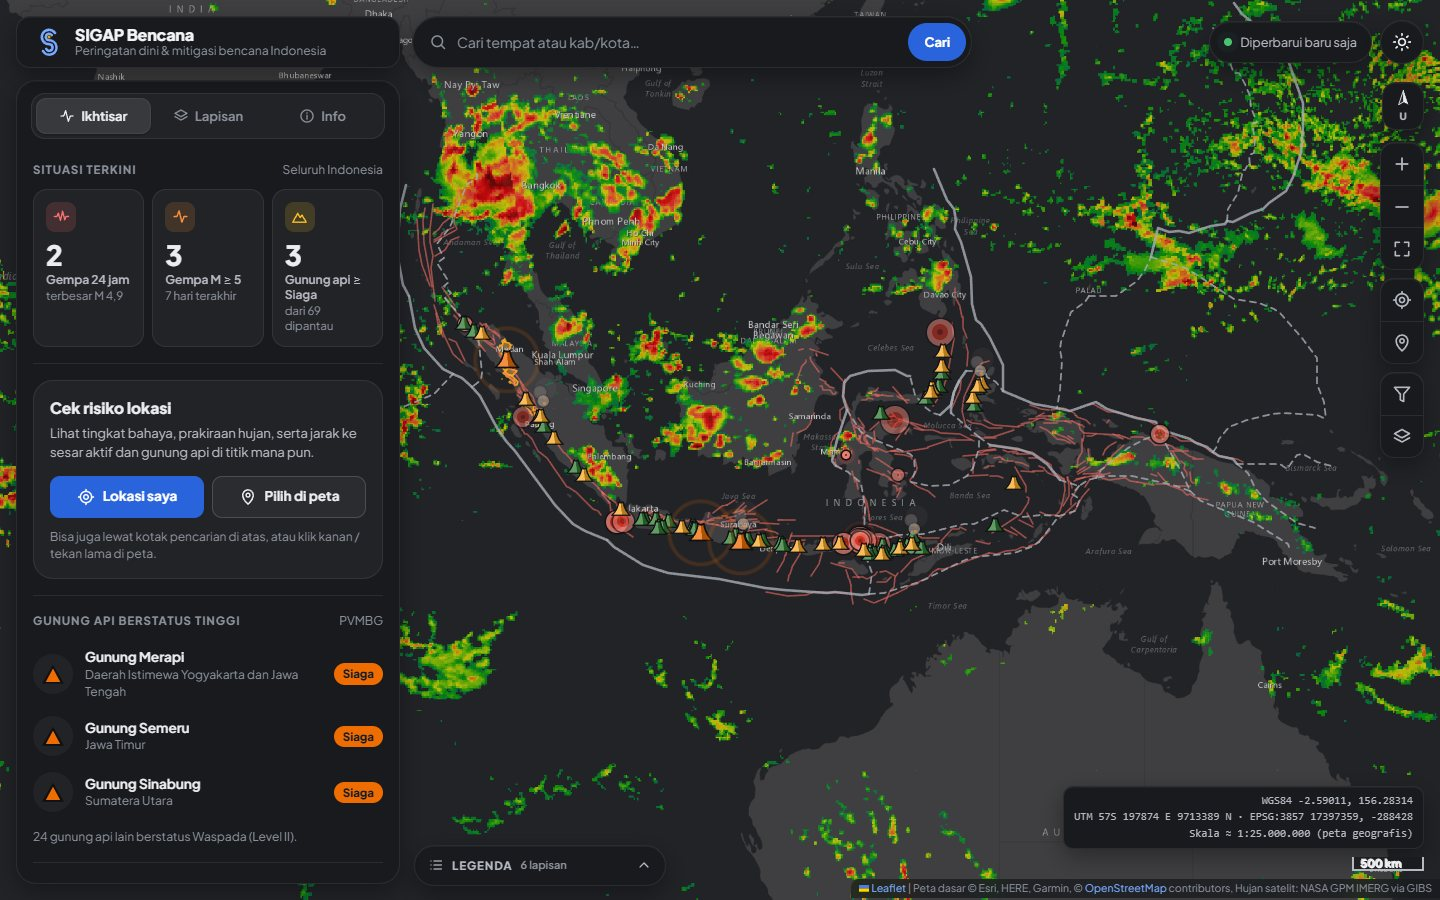
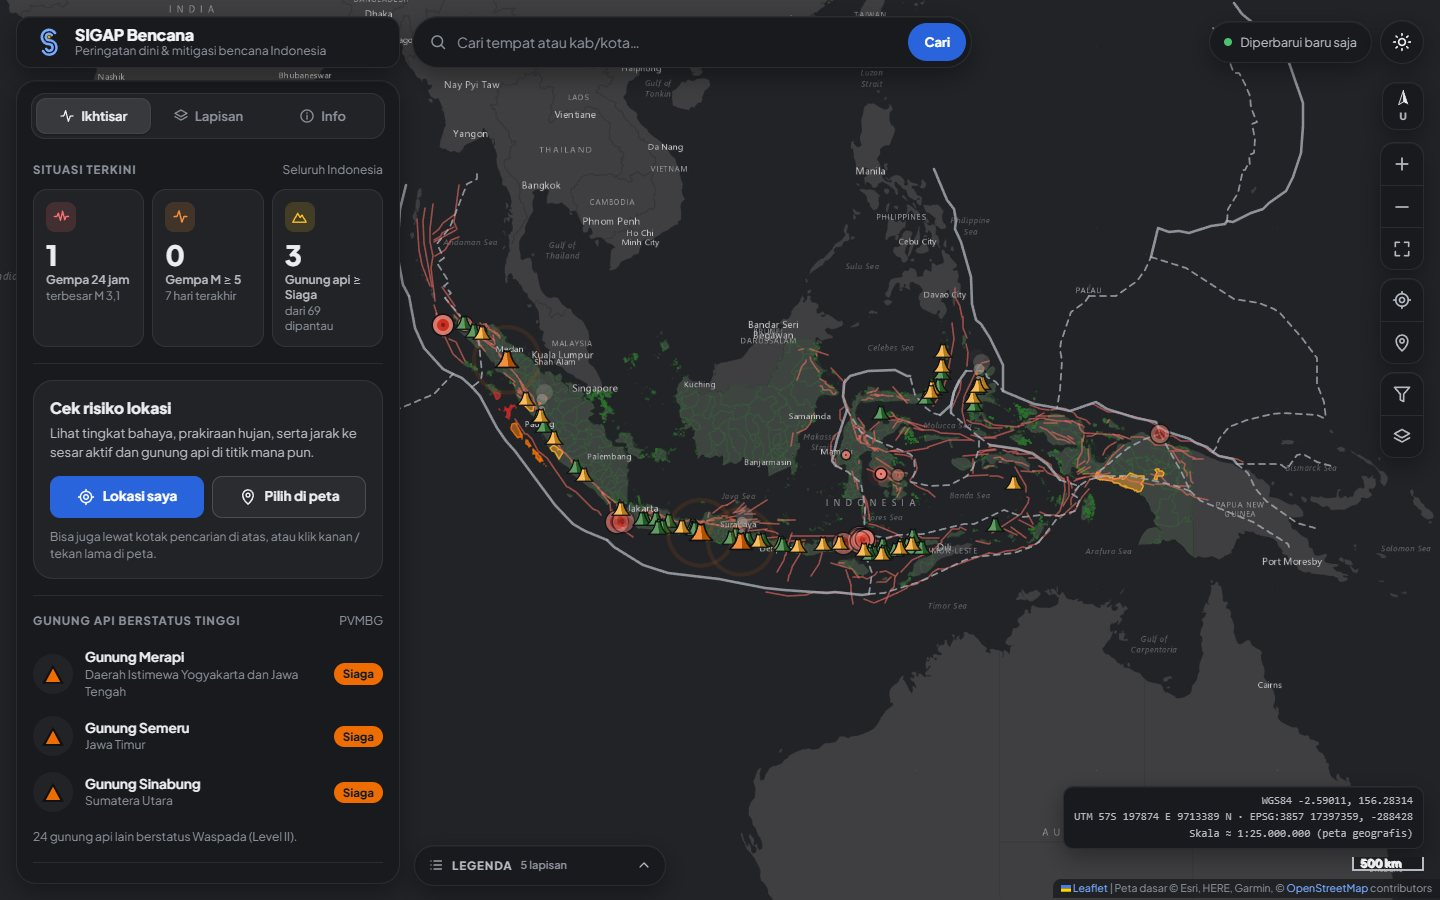
docs: README for the SIGAP 3-day outlook
- Explain how the outlook works: hazard zones, monitoring points checked
  against native InaRISK values, rain at each point, rules v0.1, and the
  12-hour schedule within the free Open-Meteo quota.
- Add GET /api/outlook, the seed and npm run indikasi notes, and the new
  server test count, in both the English and Indonesian READMEs.
- New screenshot of the outlook for 29 Sep - 1 Oct 2026, with Nias Selatan
  at Awas and Kepulauan Mentawai at Siaga. The hero, Lembang, and phone
  screenshots were retaken with the outlook as the default layer.

diff --git a/README.md b/README.md
@@ -23,7 +23,7 @@ Earthquakes, volcanoes, floods, landslides, and heavy rain on one map, checked a
 
 <picture>
   <source media="(prefers-color-scheme: dark)" srcset="docs/images/app-dark.jpg">
-  <img src="docs/images/app-light.jpg" alt="SIGAP Bencana map of Indonesia with satellite rainfall from NASA IMERG, active faults, earthquakes of the last 7 days, and volcano alert levels, with the overview panel on the left">
+  <img src="docs/images/app-light.jpg" alt="SIGAP Bencana map of Indonesia with the SIGAP 3-day outlook for every regency, active faults, earthquakes of the last 7 days, and volcano alert levels, with the overview panel on the left">
 </picture>
 
 > [!IMPORTANT]
@@ -37,7 +37,7 @@ The logo is an **S drawn from three contour lines** around an amber summit point
 
 | 514 | 69 | 401 | 1,884 | 10 |
 |:---:|:---:|:---:|:---:|:---:|
-| regencies and cities with official 2025 boundaries | volcanoes with live PVMBG alert levels | active fault segments (PuSGeN 2024) | landslide events in the deduplicated inventory | open data feeds in the research archive |
+| regencies and cities, each with a 3-day SIGAP outlook every 12 hours | volcanoes with live PVMBG alert levels | active fault segments (PuSGeN 2024) | landslide events in the deduplicated inventory | open data feeds in the research archive |
 
 ## What it does
 
@@ -46,6 +46,7 @@ The logo is an **S drawn from three contour lines** around an amber summit point
 <td width="50%" valign="top">
 
 ### Live hazards on one map
+- **SIGAP 3-day outlook** for all 514 regencies and cities, recomputed every 12 hours: heavy rain, flood, and landslide levels from Open-Meteo rain at 3,222 monitoring points × InaRISK hazard classes. It is on by default, and each popup shows BMKG's official warning next to it. It is a system indication, not an official warning.
 - **Earthquakes** from BMKG, synced every 60 seconds. Circles are sized by magnitude, coloured by depth class, and fade over 7 days. Popups carry the tsunami flag and the ShakeMap.
 - **Volcanoes** from MAGMA Indonesia, synced every 30 minutes, with alert level I–IV, eruption status, and aviation ash warnings (VONA).
 - **Heavy-rain warnings** from BMKG CEWS for the current dasarian (10-day period), drawn on regency boundaries and listed in the overview.
@@ -59,7 +60,7 @@ The logo is an **S drawn from three contour lines** around an amber summit point
 
 ### Risk check for any point
 Pick a point by search, GPS, right-click, or long press. SIGAP runs 11 lookups in parallel (web services and PostGIS queries) and returns one profile:
-- a 3-day outlook (Normal, Waspada, Siaga, Awas) from rainfall × hazard class;
+- a 3-day outlook (Normal, Waspada, Siaga, Awas) for heavy rain, flood, and landslide, from rainfall × hazard class, with the same rules as the regency outlook;
 - the five InaRISK hazard indices;
 - the nearest active fault and volcanoes, drawn as distance lines;
 - recent earthquakes within 100 km;
@@ -100,6 +101,10 @@ Several official products vanish once they expire, such as short weather warning
 
 ![Agam regency highlighted as Waspada on the heavy-rain warning layer, with the warning list in the overview panel](docs/images/rain-warnings-agam.jpg)
 
+**SIGAP 3-day outlook for 29 September–1 October 2026.** All 514 regencies are rated: Nias Selatan is Awas, Kepulauan Mentawai is Siaga, four regencies are Waspada, and 508 are Normal. The Nias Selatan level comes from one monitoring point in a high flood-hazard zone, where the model forecasts 261.6 mm for 30 September. The popup lists the three hazards with their reasons and can open the risk check at that point. It also shows BMKG's official CEWS level (Aman for this dasarian), because one uncalibrated 9 km forecast cell can be enough to raise a regency.
+
+![Nias Selatan at Awas on the SIGAP 3-day outlook, with Kepulauan Mentawai at Siaga, the regency popup, and the outlook summary in the overview panel](docs/images/outlook-nias-selatan.jpg)
+
 <table>
 <tr>
 <td width="50%"><img src="docs/images/mobile-overview.jpg" alt="Phone layout: map with the overview bottom sheet"></td>
@@ -110,6 +115,22 @@ Several official products vanish once they expire, such as short weather warning
 <td align="center">Phone layout: risk profile</td>
 </tr>
 </table>
+
+## How the 3-day outlook works
+
+Every 12 hours the server rates heavy rain, flood, and landslide for all 514 regencies and cities. Every run is stored, Normal regencies included, so the outlook can be verified against events later.
+
+1. **Hazard zones.** InaRISK flood and landslide classes for the whole country, at about 550 m, are loaded into PostGIS rasters and clipped to each regency. The same step records the area of each class per regency.
+2. **Monitoring points.** Each regency gets up to three points per hazard, in the 0.25° cells with the highest class, plus one reference point. The server smooths the 550 m export, so each point's class is checked against the native 100 m InaRISK value (`getSamples`). The risk check at that point therefore shows the same class.
+3. **Rain.** Open-Meteo daily rain for the past 3 and next 3 days at every monitoring point, at the same coordinates the risk check uses. In Indonesia Open-Meteo serves ECMWF IFS at 9 km, much finer than a 0.25° cell, so the rain is not averaged over a cell. The job asks for 100 points per request with pauses, about 3,200 calls per run, which is why it runs every 12 hours within the free quota.
+4. **Rules v0.1** in [`rules.json`](server/src/config/rules.json):
+   - heavy rain follows the BMKG category: heavy, very heavy, and extreme rain give Waspada, Siaga, and Awas;
+   - flood and landslide combine the peak daily rain with the hazard class at the point;
+   - for landslides, 100 mm over any 3 days, including the last few days, counts as heavy rain.
+
+   A regency takes the highest level among its points.
+
+The rules are not calibrated yet (that is RQ-L2), so the map labels the result as a system indication and shows BMKG's CEWS level next to it.
 
 ## Architecture
 
@@ -125,7 +146,7 @@ flowchart LR
   end
 
   subgraph server["server/ (Node.js, Express)"]
-    SYNC["Scheduler<br/>quakes 60 s, volcanoes 30 min"]
+    SYNC["Scheduler<br/>quakes 60 s, volcanoes 30 min,<br/>3-day outlook 12 h"]
     API["REST API<br/>GeoJSON"]
     RISK["Risk check<br/>11 lookups in parallel"]
   end
@@ -138,6 +159,8 @@ flowchart LR
 
   BMKG --> SYNC
   ESDM --> SYNC
+  OM --> SYNC
+  BNPB -. hazard classes, at seed .-> DB
   SYNC --> DB
   DB --> API
   BNPB --> RISK
@@ -239,8 +262,8 @@ docker compose up -d          # PostGIS on localhost:5433
 cd server
 npm install
 npm run migrate               # create tables
-npm run seed                  # boundaries, volcanoes, faults, landslide history (±15 s, downloads once)
-npm run dev                   # API on http://localhost:3000/api
+npm run seed                  # boundaries, volcanoes, faults, landslides, hazard zones (±5 min the first time)
+npm run dev                   # API on http://localhost:3000/api; first 3-day outlook ±10 min later
 ```
 
 In a second terminal:
@@ -252,6 +275,8 @@ npm run dev                   # open http://localhost:5173
 ```
 
 Use a regular browser (Chrome, Edge, Brave, or Firefox). VS Code's built-in browser gets HTTP 403 from the French OSM server, so the Humanitarian basemap stays blank there.
+
+The server computes the 3-day outlook every 12 hours and skips the run after a restart if the last one is still fresh. `npm run indikasi` in `server/` runs it once on demand, for example before a demo; each run uses about a third of Open-Meteo's free daily quota.
 
 The defaults match `docker-compose.yml`. Copy `.env.example` to `.env` only if you need to change them.
 
@@ -274,7 +299,7 @@ TEST_DATABASE_URL=postgres://sigap:sigap@localhost:5433/sigap_test npm test
 
 In PowerShell: `$env:TEST_DATABASE_URL="postgres://sigap:sigap@localhost:5433/sigap_test"; npm test`
 
-Current counts: 56 server tests (with the integration database), 37 recorder tests, and 18 research tests. One research test reproduces the worked example of the EDuMaP paper.
+Current counts: 75 server tests (with the integration database), 37 recorder tests, and 18 research tests. One research test reproduces the worked example of the EDuMaP paper.
 
 </details>
 
@@ -293,6 +318,7 @@ Every endpoint returns JSON; spatial data is GeoJSON with `[lon, lat]` coordinat
 | `GET /api/rain-warnings` | Regencies under a BMKG heavy-rain warning (Waspada or higher) for the current dasarian |
 | `GET /api/rain-warnings/summary` | The same warnings without geometry, with province and bounds, for lists |
 | `GET /api/rain-now` | Time and tile URL of the latest NASA IMERG rainfall map |
+| `GET /api/outlook` | Latest SIGAP 3-day outlook: heavy rain, flood, and landslide level per regency, with reason, peak day, and worst monitoring point, plus counts per level |
 | `GET /api/landslides` | Landslide history from PVMBG and MAGMA |
 | `GET /api/geocode?q=bandung` | Regency search in the database, other places through Nominatim |
 
@@ -331,13 +357,13 @@ Shortened from the real response. If one source fails, only its own part carries
 |---|---|---|
 | Earthquakes | [BMKG](https://data.bmkg.go.id/) | Credit BMKG as the source |
 | Heavy-rain early warnings | [BMKG CEWS](https://cews.bmkg.go.id/) | Credit BMKG as the source |
-| Hazard indices, active faults | [BNPB InaRISK](https://inarisk.bnpb.go.id/); PuSGeN 2024 fault model | Credit BNPB and PuSGeN |
+| Hazard indices (point lookups, samples, and ~550 m class rasters for the outlook), active faults | [BNPB InaRISK](https://inarisk.bnpb.go.id/); PuSGeN 2024 fault model | Credit BNPB and PuSGeN |
 | Volcano alert levels | [MAGMA Indonesia](https://magma.esdm.go.id/), PVMBG, Ministry of Energy and Mineral Resources | Credit PVMBG |
 | Monthly landslide forecast, ZKGT, landslide events | PVMBG, Geological Agency ([Portal MBG](https://vsi.esdm.go.id/portalmbg/) and MAGMA Indonesia) | Credit PVMBG. The event history is rebuilt by `research/01_inventaris.py` without personal data |
 | Plate boundaries | Bird (2003) PB2002, converted by H. Ahlenius / Nordpil | ODC-By |
 | Administrative boundaries | Kepmendagri No 300.2.2-2430 of 2025, [cahyadsn/wilayah_boundaries](https://github.com/cahyadsn/wilayah_boundaries) | MIT |
 | Citizen reports (research archive) | [PetaBencana.id](https://petabencana.id/) | CC BY-NC 4.0 |
-| Rain forecast, ensemble, elevation | [Open-Meteo](https://open-meteo.com/) (ECMWF; Copernicus DEM 90 m) | CC BY 4.0, free for non-commercial use |
+| Rain forecast (also for the 3-day outlook), ensemble, elevation | [Open-Meteo](https://open-meteo.com/) (ECMWF; Copernicus DEM 90 m) | CC BY 4.0, free for non-commercial use |
 | Satellite rainfall | [NASA GPM IMERG](https://gpm.nasa.gov/data/imerg) Early Run through [NASA GIBS](https://www.earthdata.nasa.gov/engage/open-data-services-software/earthdata-developer-portal/gibs-api) | Open NASA data; credit NASA |
 | Place search | [Nominatim](https://nominatim.org/), © OpenStreetMap contributors | ODbL; at most 1 request per second, no autocomplete |
 | Basemaps | Esri; © OpenStreetMap contributors (ODbL); Humanitarian OpenStreetMap Team; OpenTopoMap | CC-BY-SA for OpenTopoMap |

diff --git a/README.id.md b/README.id.md
@@ -38,6 +38,13 @@ Tugas Besar mata kuliah Teknologi Pemetaan Berbasis Web (ACK4LBB3), Telkom Unive
 - **Status gunung api:** 69 gunung api dari MAGMA/PVMBG, disinkronkan tiap 30 menit. Simbolnya kerucut berfaset berwarna level PVMBG (gaya terinspirasi ikon peta MAGMA, digambar sendiri); Siaga/Awas lebih besar. Status sedang erupsi dan VONA (peringatan abu vulkanik untuk penerbangan) ikut diambil dari MAGMA.
 - **Filter penanda:** tombol corong di bilah alat kanan menyalakan atau mematikan penanda gempa dan gunung api, serta menyaring gempa menurut kedalaman, magnitudo minimum, dan waktu (24 jam, 3 hari, 7 hari), dan gunung api menurut tingkat aktivitas. Menu menunjukkan jumlah titik yang tampil; titik biru di tombol menandakan ada penanda yang disembunyikan. Gempa atau gunung api yang dipilih dari daftar tetap ditampilkan walau tersaring.
 - **Peta rawan InaRISK BNPB:** gempa bumi, cuaca ekstrem, banjir, tanah longsor, dan gunung api, masing-masing dalam 3 kelas bahaya. Ditambah zona kerentanan gerakan tanah (ZKGT) PVMBG dengan warna kelas yang sama.
+- **Indikasi SIGAP 3 hari per kab/kota:** 514 kab/kota dinilai ulang tiap 12 jam untuk hujan lebat, banjir, dan tanah longsor. Nyala bawaan di peta, dengan pilihan tampilan Tertinggi, Hujan lebat, Banjir, dan Tanah longsor. Cara kerjanya:
+  - kelas bahaya banjir dan longsor InaRISK seluruh Indonesia (±550 m) dimuat ke raster PostGIS, lalu di-clip per kab/kota; luas tiap kelas per kab/kota ikut dicatat;
+  - tiap kab/kota punya sampai 3 titik pantau per bahaya di sel 0,25° berkelas tertinggi, ditambah 1 titik acuan. Kelas tiap titik dicek ke nilai asli InaRISK 100 m (`getSamples`), karena ekspor 550 m dihaluskan server. Hasilnya, cek risiko di titik itu menunjukkan kelas yang sama;
+  - hujan harian Open-Meteo 3 hari lalu dan 3 hari ke depan diambil tepat di tiap titik pantau, pada koordinat yang sama dengan cek risiko. Di Indonesia Open-Meteo memakai ECMWF IFS 9 km, jauh lebih rapat dari sel 0,25°, jadi hujan tidak dirata-rata per sel. Satu run ±3.200 panggilan (100 titik per permintaan dengan jeda), karena itu dijalankan tiap 12 jam supaya tetap di dalam kuota gratis;
+  - aturan v0.1 (`server/src/config/rules.json`): hujan lebat mengikuti kategori BMKG (lebat Waspada, sangat lebat Siaga, ekstrem Awas); banjir dan longsor menggabungkan hujan harian tertinggi dengan kelas bahaya di titik; untuk longsor, akumulasi 3 hari ≥ 100 mm (termasuk hujan hari-hari terakhir) dihitung setara hujan lebat. Level kab/kota = level tertinggi dari titik-titiknya;
+  - popup kab/kota memuat ketiga bahaya beserta alasan dan hari puncaknya, level CEWS BMKG sebagai pembanding, dan tombol cek risiko di titik pantau terparah. Ikhtisar menampilkan jumlah kab/kota per level dan daftar yang Waspada ke atas;
+  - setiap run disimpan (`indikasi_run`, `indikasi_wilayah`), termasuk kab/kota yang Normal, untuk uji prospektif. Aturannya belum dikalibrasi, jadi selalu diberi label indikasi sistem, bukan peringatan resmi.
 - **Hujan dan longsor:**
   - peringatan dini curah hujan tinggi BMKG (CEWS) dasarian berjalan, digambar di batas kab/kota (Waspada, Siaga, Awas) dan didaftar di Ikhtisar; klik untuk menuju wilayahnya;
   - hujan terkini dari satelit NASA GPM IMERG (rata-rata 30 menit, terlambat ±5 jam);
@@ -47,7 +54,7 @@ Tugas Besar mata kuliah Teknologi Pemetaan Berbasis Web (ACK4LBB3), Telkom Unive
 - **Pencarian lokasi:** nama kab/kota dicari di database sendiri, tempat lain lewat Nominatim OpenStreetMap. Pencarian berjalan saat Enter ditekan, sesuai kebijakan Nominatim.
 - **Cek risiko lokasi:** pilih titik dengan pencarian, tombol "lokasi saya", mode pilih titik, atau klik kanan/tekan lama di peta. Profil tampil di panel samping (peta tidak tertutup) dan dibuka dengan satu status 3 hari ke depan (Normal/Waspada/Siaga/Awas). Isinya:
   - indeks lima bahaya InaRISK dengan kelas BNPB;
-  - indikasi peringatan 3 hari (hujan × kelas bahaya, aturan awal v0 di `server/src/config/rules.json`);
+  - indikasi 3 hari untuk hujan lebat, banjir, dan tanah longsor (hujan × kelas bahaya, aturan v0.1 di `server/src/config/rules.json`, sama dengan indikasi per kab/kota);
   - prakiraan hujan dan elevasi;
   - jarak ke sesar aktif dan gunung api terdekat, digambar sebagai garis di peta;
   - gempa di sekitar lokasi dan saran kesiapsiagaan;
@@ -83,8 +90,8 @@ docker compose up -d        # database di localhost:5433
 cd server
 npm install
 npm run migrate             # membuat tabel
-npm run seed                # batas wilayah, gunung api, sesar, riwayat longsor (unduh sekali, ±15 detik)
-npm run dev                 # API di http://localhost:3000/api
+npm run seed                # batas wilayah, gunung api, sesar, riwayat longsor, zona bahaya (±5 menit pertama kali)
+npm run dev                 # API di http://localhost:3000/api; indikasi 3 hari pertama siap ±10 menit kemudian
 ```
 
 Di terminal lain:
@@ -96,6 +103,8 @@ npm run dev                 # buka http://localhost:5173
 ```
 
 Buka alamat itu di browser biasa (Chrome, Edge, Brave, atau Firefox). Di browser bawaan VS Code peta dasar Kemanusiaan (HOT) tampil kosong, karena server OSM Prancis menolak User-Agent VS Code (HTTP 403).
+
+Server menghitung indikasi 3 hari tiap 12 jam dan tidak mengulanginya saat dimulai ulang bila run terakhir masih segar. Untuk memperbarui kapan saja (mis. sebelum demo), jalankan `npm run indikasi` di folder `server/`. Satu run memakai ±sepertiga kuota harian gratis Open-Meteo.
 
 Konfigurasi bawaan sudah cocok dengan `docker-compose.yml`. Salin `.env.example` menjadi `.env` hanya bila perlu mengubahnya.
 
@@ -130,6 +139,7 @@ Di PowerShell: `$env:TEST_DATABASE_URL="postgres://sigap:sigap@localhost:5433/si
 | `GET /api/landslides` | Riwayat kejadian gerakan tanah PVMBG dan MAGMA (GeoJSON) |
 | `GET /api/rain-warnings/summary` | Peringatan hujan BMKG tanpa geometri, dengan provinsi dan batas wilayah, untuk daftar |
 | `GET /api/rain-now` | Waktu dan URL petak peta hujan satelit NASA IMERG terbaru |
+| `GET /api/outlook` | Indikasi SIGAP 3 hari terbaru: level hujan lebat, banjir, dan tanah longsor per kab/kota beserta alasan, hari puncak, dan titik pantau terparah, plus jumlah kab/kota per level |
 | `GET /api/geocode?q=bandung` | Pencarian kab/kota (database) dan tempat lain (Nominatim) |
 
 ## Sumber data dan atribusi
@@ -137,14 +147,14 @@ Di PowerShell: `$env:TEST_DATABASE_URL="postgres://sigap:sigap@localhost:5433/si
 | Data | Sumber | Ketentuan |
 |---|---|---|
 | Gempa bumi | [BMKG](https://data.bmkg.go.id/) | Wajib mencantumkan BMKG sebagai sumber |
-| Indeks bahaya, sesar aktif | [InaRISK BNPB](https://inarisk.bnpb.go.id/); model sesar PuSGeN 2024 | Cantumkan BNPB dan PuSGeN |
+| Indeks bahaya (cek titik, sampel, dan raster kelas ±550 m untuk indikasi 3 hari), sesar aktif | [InaRISK BNPB](https://inarisk.bnpb.go.id/); model sesar PuSGeN 2024 | Cantumkan BNPB dan PuSGeN |
 | Status gunung api | [MAGMA Indonesia](https://magma.esdm.go.id/), PVMBG Kementerian ESDM | Cantumkan PVMBG |
 | Prakiraan potensi gerakan tanah bulanan, ZKGT, dan riwayat kejadian longsor | PVMBG, Badan Geologi, Kementerian ESDM ([Portal MBG](https://vsi.esdm.go.id/portalmbg/) dan MAGMA Indonesia) | Cantumkan PVMBG. Riwayat disusun ulang oleh `research/01_inventaris.py` tanpa data pribadi |
 | Peringatan dini curah hujan tinggi | [BMKG CEWS](https://cews.bmkg.go.id/) | Wajib mencantumkan BMKG sebagai sumber |
 | Batas lempeng | Bird (2003) PB2002, konversi H. Ahlenius/Nordpil | ODC-By |
 | Batas wilayah | Kepmendagri No 300.2.2-2430 Tahun 2025, [cahyadsn/wilayah_boundaries](https://github.com/cahyadsn/wilayah_boundaries) | MIT |
 | Laporan warga (arsip riset) | [PetaBencana.id](https://petabencana.id/) | CC BY-NC 4.0 |
-| Prakiraan hujan dan elevasi | [Open-Meteo](https://open-meteo.com/) (elevasi dari Copernicus DEM 90 m) | CC BY 4.0, gratis untuk nonkomersial |
+| Prakiraan hujan (juga untuk indikasi 3 hari) dan elevasi | [Open-Meteo](https://open-meteo.com/) (elevasi dari Copernicus DEM 90 m) | CC BY 4.0, gratis untuk nonkomersial |
 | Hujan satelit | [NASA GPM IMERG](https://gpm.nasa.gov/data/imerg) Early Run, lewat NASA GIBS | Data terbuka NASA; cantumkan NASA |
 | Pencarian tempat | [Nominatim](https://nominatim.org/) © OpenStreetMap contributors | ODbL; maksimal 1 request/detik, tanpa autocomplete |
 | Peta dasar | Esri; © OpenStreetMap contributors (ODbL); Humanitarian OpenStreetMap Team; OpenTopoMap | CC-BY-SA untuk OpenTopoMap |
